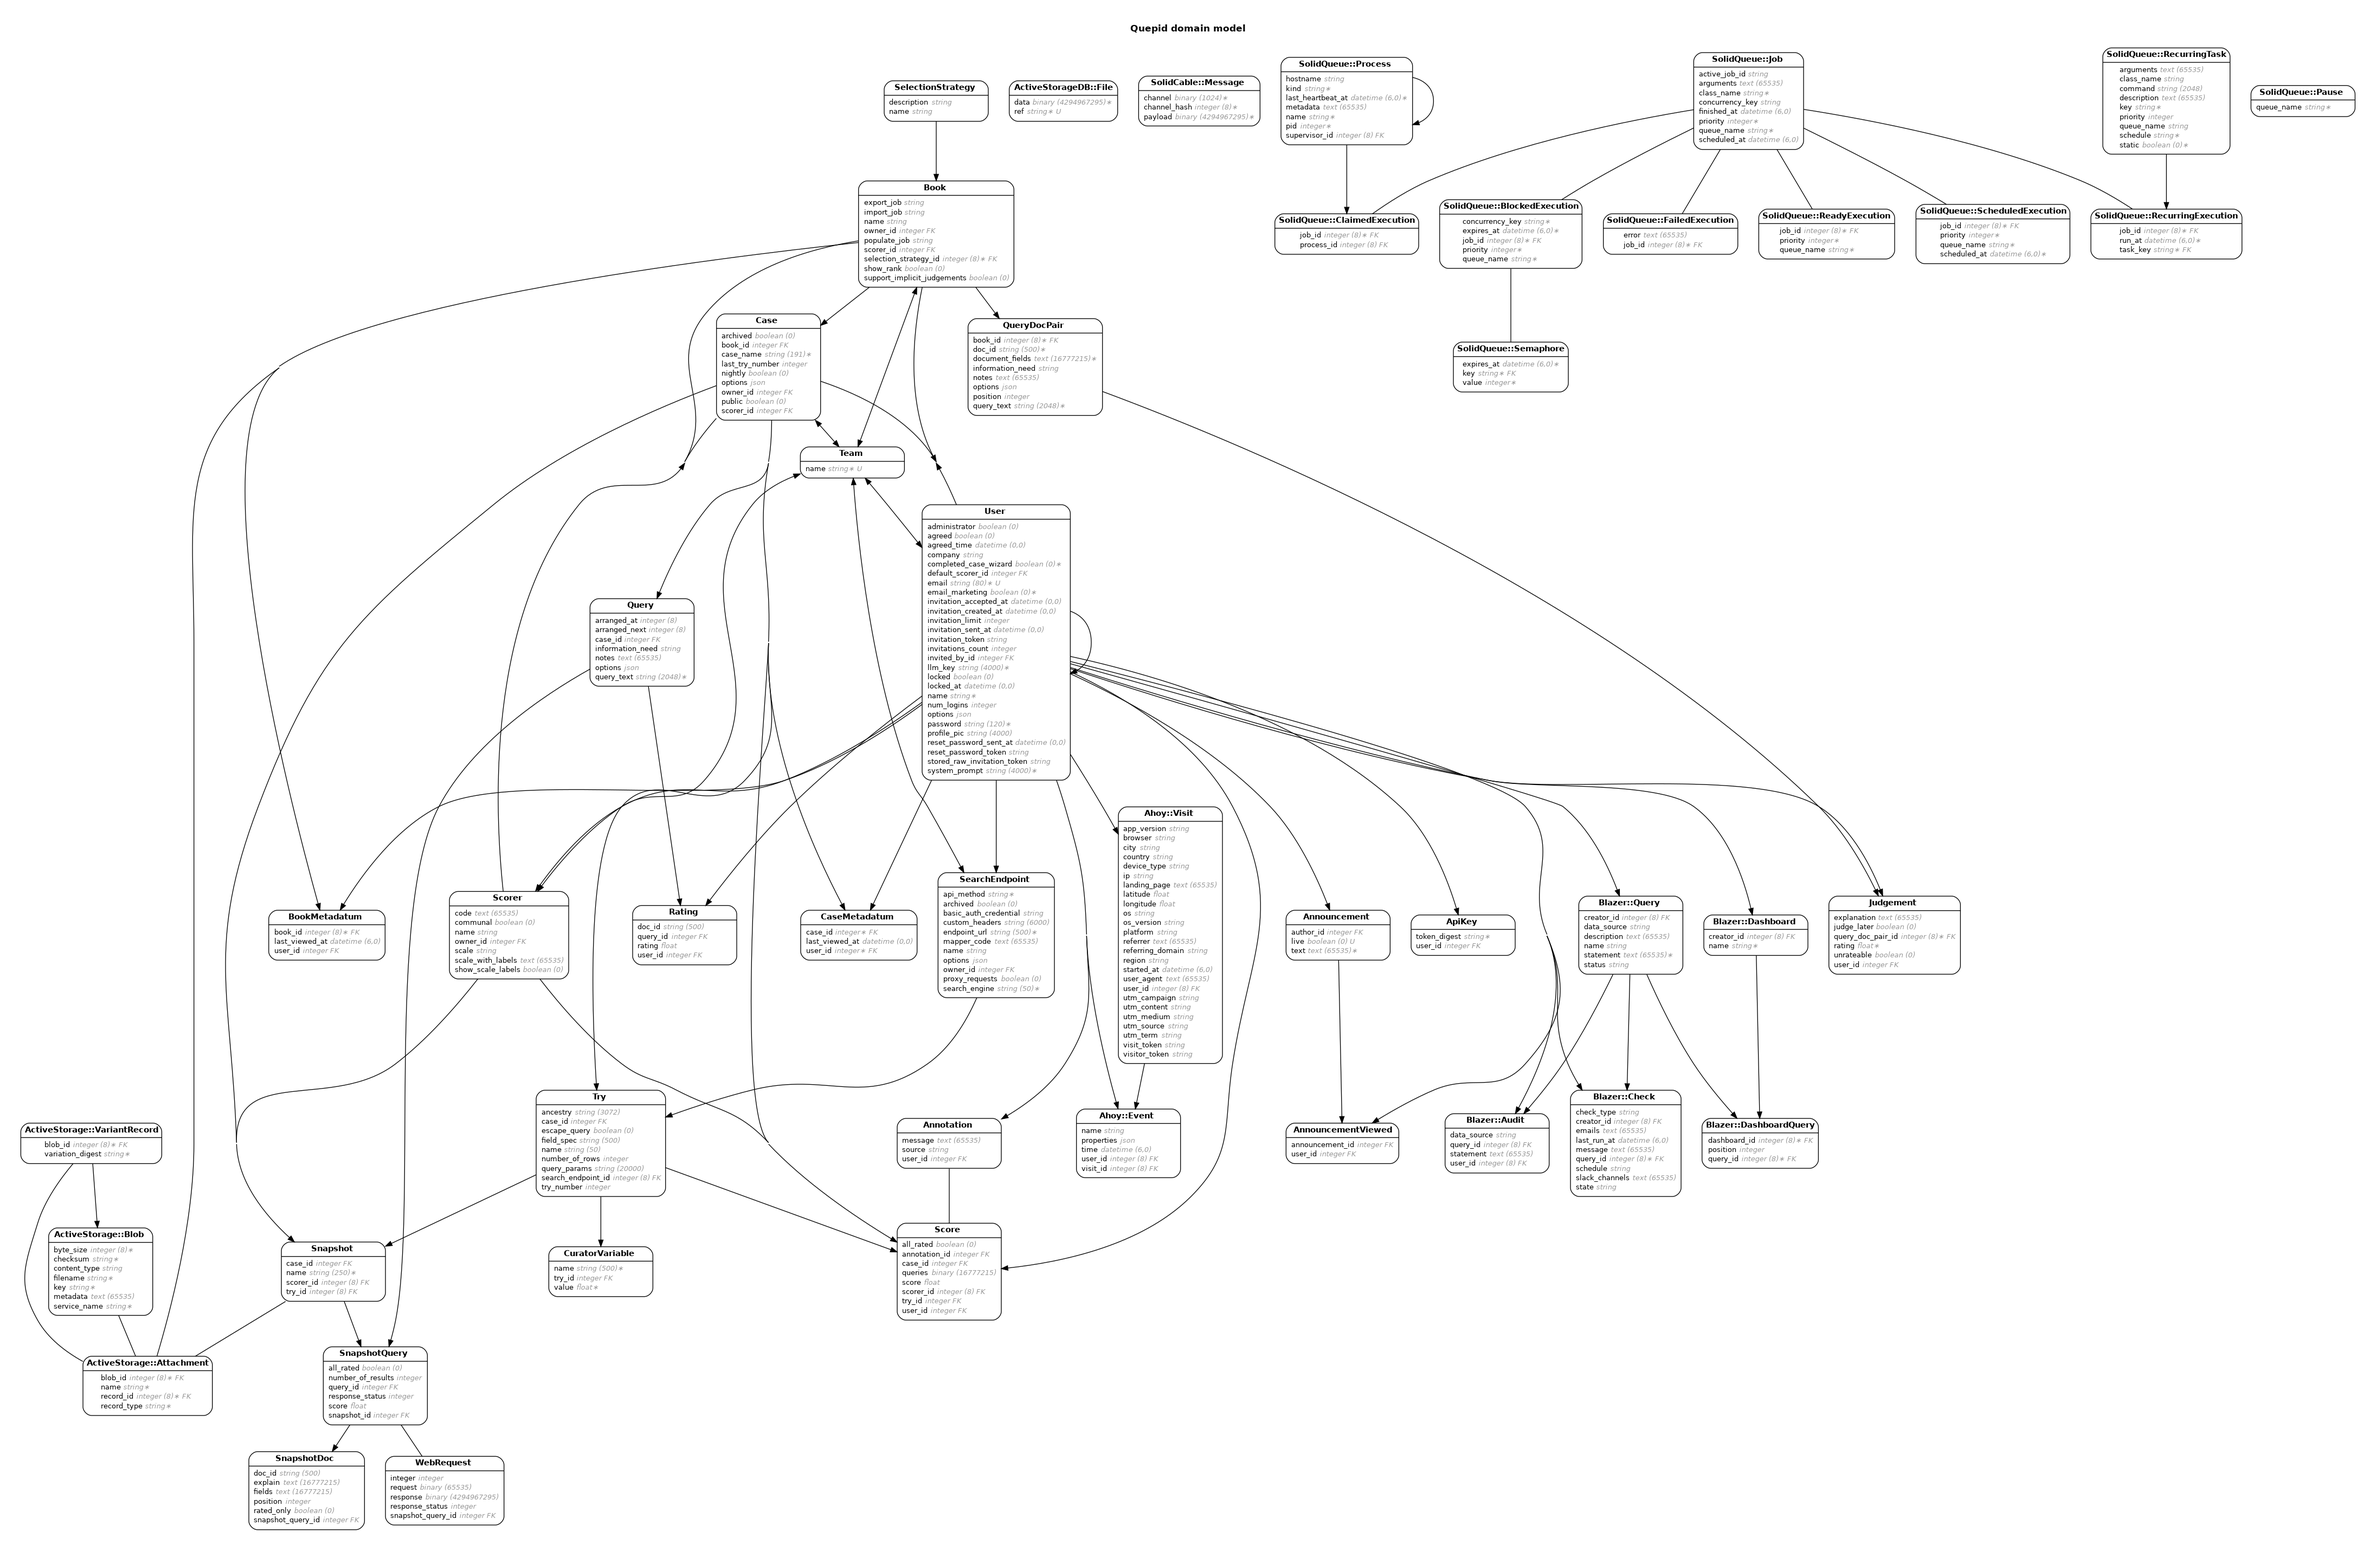
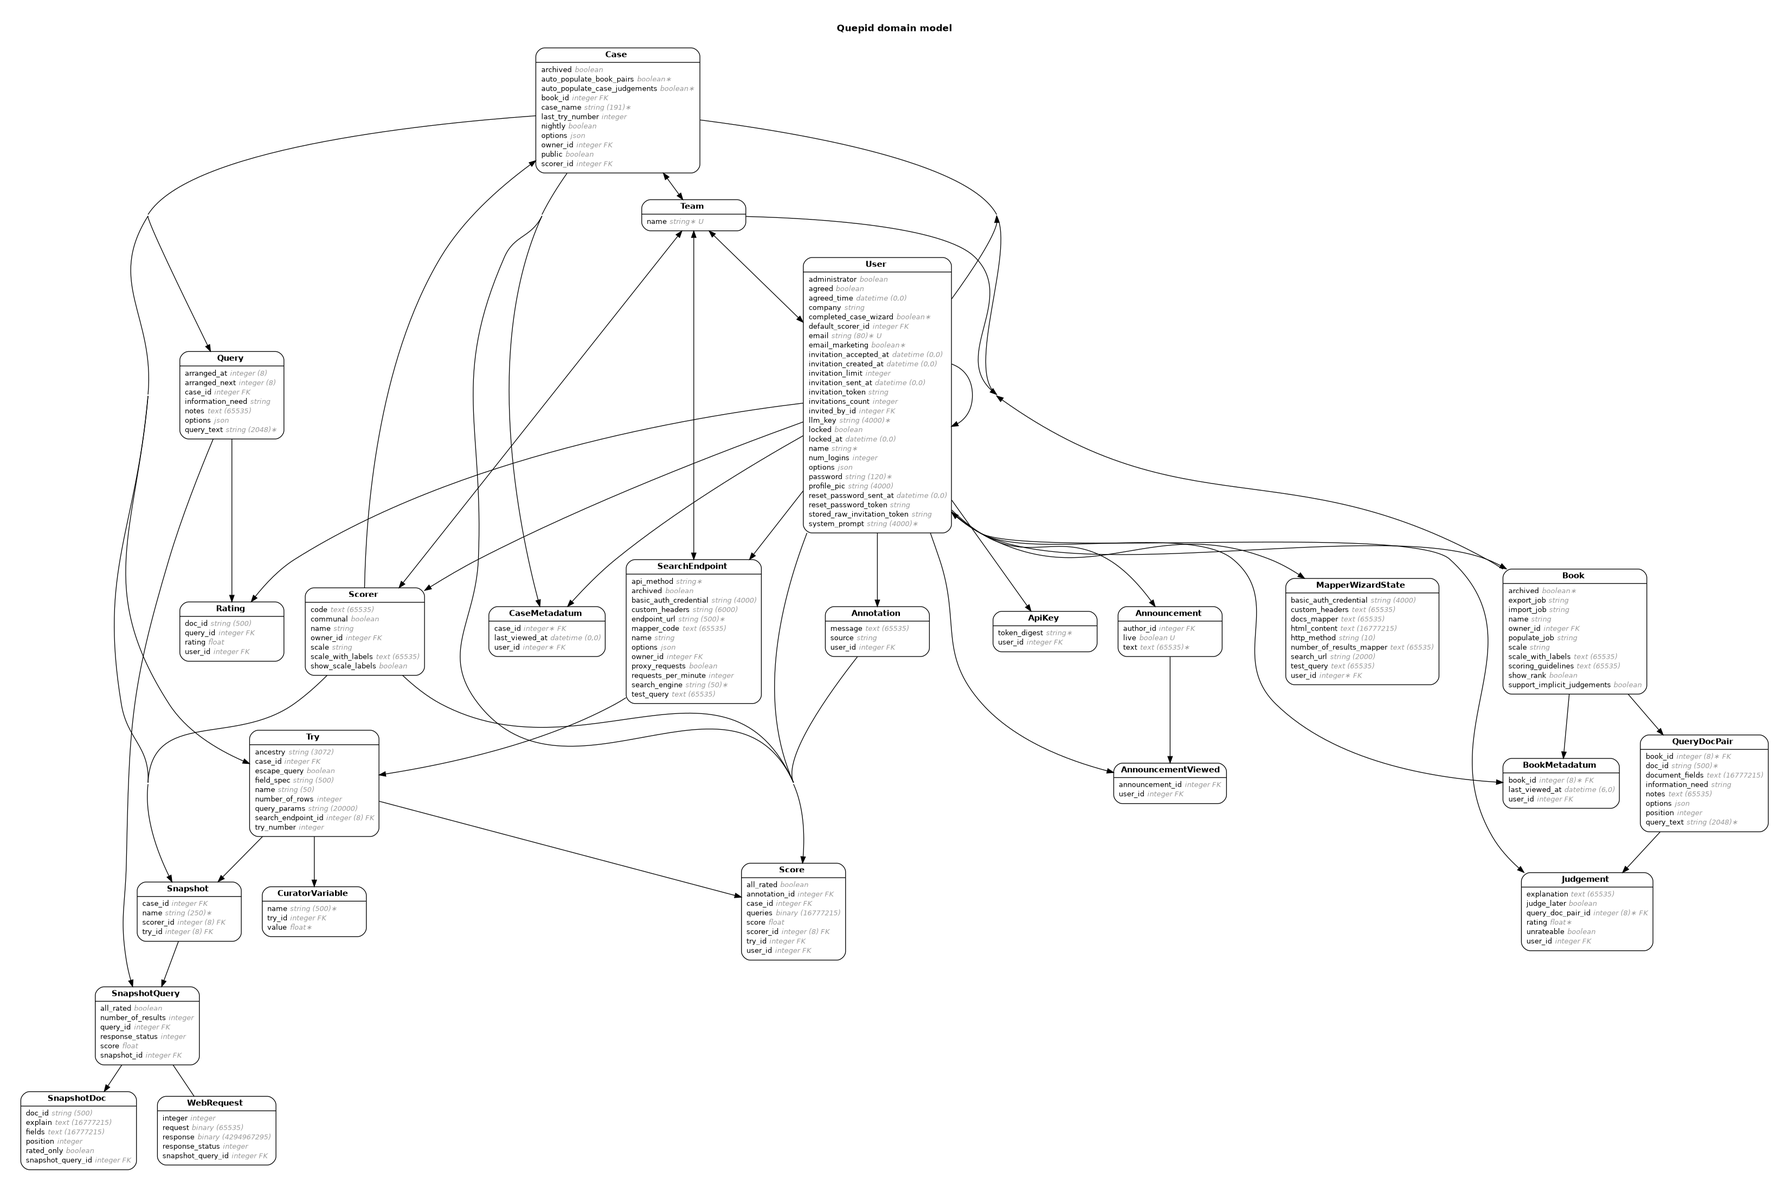
Rails erd now NOT with mermaid but nicer anyway! (#1723)
* Rails ERD now does mermaid!

* no longer need this

* Potential fix for pull request finding

* Potential fix for pull request finding

* try vertical

* try horizontal

* simplify view

* strpped down chart based on advice

* restore the png, lets see how that looks

* update back to .png

* refactor

---------

diff --git a/docs/data_mapping.md b/docs/data_mapping.md
@@ -44,6 +44,8 @@ The data modeled by a Book can be imported back into a Case.  We take all the Ju
 
 Quepid provides scorers that are written by the OSC team for everyone to use, those `Scorer`'s are tagged with the `communal` flag as `true`, and the default scorers are created when seeding the db (using `bin/rake db:seed` or `bin/rake db:setup`).
 
-## Entity Resolution Diagram
+## Entity Relationship Diagram
 
-![model diagram](erd.png).
+![Quepid data model](erd.png)
+
+> Regenerate with `bin/docker r bundle exec rake erd:image`.

diff --git a/DEVELOPER_GUIDE.md b/DEVELOPER_GUIDE.md
@@ -699,6 +699,9 @@ Followed by `bin/docker r bundle exec rake db:migrate`
 You should also update the schema annotation data by running `bin/docker r bundle exec annotations`
 when you change the schema.
 
+You can rebuild the [ERD](docs/erd.png) (embedded in the [Data Mapping](docs/data_mapping.md) doc) via
+`bin/docker r bundle exec rake erd:image`
+
 ## Updating RubyGems
 
 Modify the file `Gemfile` and then run:

diff --git a/README.md b/README.md
@@ -48,7 +48,7 @@ People have been sharing how they have used Quepid in various [blog posts](https
 
 The [Data Mapping](docs/data_mapping.md) file provides detailed information about the data structure of the app.
 
-You can rebuild the [ERD](docs/erd.png) via `bin/docker r bundle exec rake erd:image`
+You can see the database schema as an [ERD](docs/erd.png) `
 
 # App Structure
 
